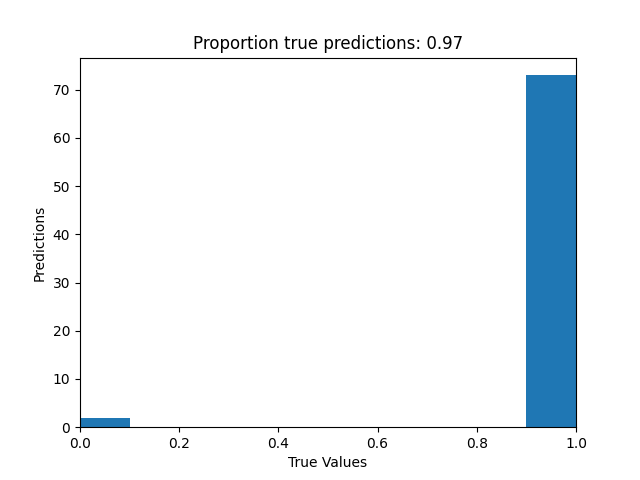
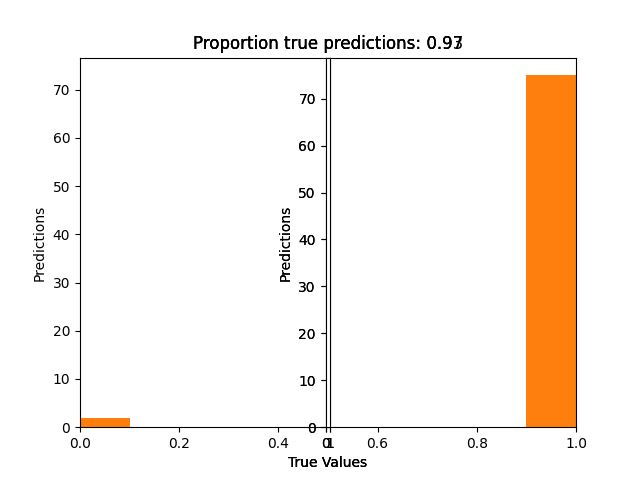
update

Changed region(s): [[0.8125, 0.1562, 0.9062, 0.9062], [0.3125, 0.0625, 0.7188, 0.9688], [0.125, 0.8438, 0.2188, 0.9062]]

diff --git a/gen_training_data.py b/gen_training_data.py
@@ -256,8 +256,6 @@ def experimentPartTwoWrapper():
         ])
         model.summary()
         
-
-
         # compile the neural network
         model.compile(
             optimizer="adam",
@@ -500,7 +498,7 @@ def three_vars_gateDeepNN(i):
     plt.xlim(lims)
     #plt.ylim(lims)
     plt.savefig("3_variable_gate_predictions_"+str(i)+".png")
-
+    plt.close()
     print(test_predictions)
     #print(testTarget.iloc[testSamples])
     #print(len(testTarget.iloc[testSamples]))
@@ -620,7 +618,7 @@ def five_vars_gateDeepNN(i):
     plt.xlim(lims)
     #plt.ylim(lims)
     plt.savefig("5_variable_gate_predictions_"+str(i)+".png")
-
+    plt.close()
     print(test_predictions)
     #print(testTarget.iloc[testSamples])
     #print(len(testTarget.iloc[testSamples]))
@@ -739,13 +737,181 @@ def ten_vars_gateDeepNN(i):
     plt.xlim(lims)
     #plt.ylim(lims)
     plt.savefig("10_variable_gate_predictions_"+str(i)+".png")
-
+    plt.close()
     print(test_predictions)
     #print(testTarget.iloc[testSamples])
     #print(len(testTarget.iloc[testSamples]))
     print(answer)
     print(len(answer))
     print(sum([1 if i == j else 0 for i, j in zip(test_predictions,answer)])/len(answer))
+
+def experimentPartThreeWrapper():
+    """Simple perceptron"""
+    # prepare data
+    concatDF, splitDF, inputdata, targetdata = experimentPartOneWrapper()
+    # prepare network
+    testNet = nx.read_graphml("large_hif1Agraph.graphml")
+    # get node
+    testNode = dict(
+        filter(
+            #lambda elem: elem[1] == max(dict(testNet.in_degree).values()),
+            lambda elem: elem[1] >= 3,
+            dict(testNet.in_degree).items(),
+        )
+    )
+    import random
+    answers = {}
+    testNodes = list(testNode.keys())
+    #testNode = testNode[random.sample(range(0, len(testNode)), 1)[0]]
+    for testNode in testNodes:
+        print(testNode)
+        # get upstream nodes
+        upstream = testNet.in_edges(testNode, data = True)
+        print(upstream)
+        signal = [i[2]['signal'] for i in upstream]
+        signal = [-1 if x == "i" else 1 for x in signal]
+        signal.extend(signal)
+        upstream = [i[0] for i in upstream]
+        # subset input data
+        testInput = inputdata.iloc[
+            inputdata.index.get_level_values("Entity").isin(upstream)
+        ].T.astype('int')#.mul(signal)
+        print(testInput.shape)
+        # subset target data
+        testTarget = targetdata.iloc[
+            targetdata.index.get_level_values("Entity").isin([testNode])
+        ].T.astype('int')
+        print(testTarget.shape)
+        print(testTarget)
+        print(testInput)
+        """
+        model = models.Sequential(
+            name="Perceptron",
+            layers=[
+                layers.Dense(  # a fully connected layer
+                    name="dense",
+                    input_dim=len(
+                        testInput.columns
+                    ),  # number of features = number of upstream nodes from the PKN
+                    units=1,  # and 1 node because we want 1 output
+                    activation="linear",  # f(x)=x
+                )
+            ],
+        )
+        model.summary()
+        """
+        model = models.Sequential(name="DeepNN", layers=[
+        ### hidden layer 1
+        layers.Dense(name="h1", input_dim=len(
+                        testInput.columns
+                    ),
+                    units=int(round((len(
+                        testInput.columns
+                    )+1)/2)), 
+                    activation='linear'),
+        layers.Dropout(name="drop1", rate=0.2),
+        
+        ### hidden layer 2
+        layers.Dense(name="h2", units=int(round((len(
+                        testInput.columns
+                    )+1)/4)), 
+                    activation='relu'),
+        layers.Dropout(name="drop2", rate=0.2),
+        
+        ### layer output
+        layers.Dense(name="output", units=1, activation='sigmoid')
+        ])
+        model.summary()
+        
+        # compile the neural network
+        model.compile(
+            optimizer="adam",
+            loss="mean_absolute_error",
+            metrics=[
+                #tensorflow.keras.metrics.AUC(),
+                #tensorflow.keras.metrics.FalsePositives(),
+                #tensorflow.keras.metrics.FalseNegatives(),
+                tensorflow.keras.metrics.BinaryAccuracy(),
+                R2,
+                #tensorflow.keras.metrics.Recall(),
+            ],
+        )
+
+        n_samples = len(testInput.index)
+        trainingSamples = random.sample(range(0, n_samples), floor(3*n_samples/4))
+        testSamples = list(set(range(0,n_samples)).difference(set(trainingSamples)))
+        X = testInput.iloc[trainingSamples]
+        y = testTarget.iloc[trainingSamples]
+        training = model.fit(
+            x=X, y=y, batch_size=2, epochs=16, shuffle=True, verbose=0, validation_split=0.3
+        )
+
+        # plot
+        metrics = [
+            k for k in training.history.keys() if ("loss" not in k) and ("val" not in k)
+        ]
+        fig, ax = plt.subplots(nrows=1, ncols=2, sharey=True, figsize=(15, 3))
+
+        ## training
+        ax[0].set(title="Training")
+        ax11 = ax[0].twinx()
+        ax[0].plot(training.history["loss"], color="black")
+        ax[0].set_xlabel("Epochs")
+        ax[0].set_ylabel("Loss", color="black")
+        colors = ["blue", "red", "orange"]
+        i = 0
+        for metric in metrics:
+            color = colors[i]
+            i = i + 1
+            ax11.plot(training.history[metric], label=metric, color = color)
+        ax11.set_ylabel("Score", color="red")
+        ax11.legend()
+
+        ## validation
+        i = 0
+        ax[1].set(title="Validation")
+        ax22 = ax[1].twinx()
+        ax[1].plot(training.history["val_loss"], color="black")
+        ax[1].set_xlabel("Epochs")
+        ax[1].set_ylabel("Loss", color="black")
+        for metric in metrics:
+            ax22.plot(training.history["val_" + metric], label=metric, color=colors[i])
+            i = i + 1
+        ax22.set_ylabel("Score", color="red")
+        ax11.legend()
+        plt.savefig("temp.png")
+        plt.close()
+
+        ## explainer_shap(model, upstream, X, X_train=X, task="regression", top=10)
+        from numpy import argmax
+        test_predictions = argmax(model.predict(testInput.iloc[testSamples]),axis=-1).flatten()
+
+        a = plt.axes(aspect='equal')
+        plt.scatter(testTarget.iloc[testSamples], test_predictions)
+        plt.xlabel('True Values')
+        plt.ylabel('Predictions')
+        lims = [0, 1]
+        plt.xlim(lims)
+        plt.ylim(lims)
+        plt.savefig('temp2.png')
+
+        print(test_predictions)
+        #print(testTarget.iloc[testSamples])
+        #print(len(testTarget.iloc[testSamples]))
+        answer = testTarget.iloc[testSamples]
+        answer = answer.iloc[:,0]
+        answer = answer.to_list()
+        print(answer)
+        print(len(answer))
+        print(sum([1 if i == j else 0 for i, j in zip(test_predictions,answer)]))
+
+        answers[testNode] = [sum([1 if i == j else 0 for i, j in zip(test_predictions,answer)])/len(answer), test_predictions, answer]
+
+    #print(answers)
+
+    for tn in answers.keys():
+        if sum(answers[tn][2]) > 0:
+            print(answers[tn])
 
 if __name__ == "__main__":
     # prepare data
@@ -756,5 +922,8 @@ if __name__ == "__main__":
     for i in range(0,3):
         print(i)
         ten_vars_gateDeepNN(i)
+        plt.close()
         five_vars_gateDeepNN(i)
+        plt.close()
         three_vars_gateDeepNN(i)
+        plt.close()
